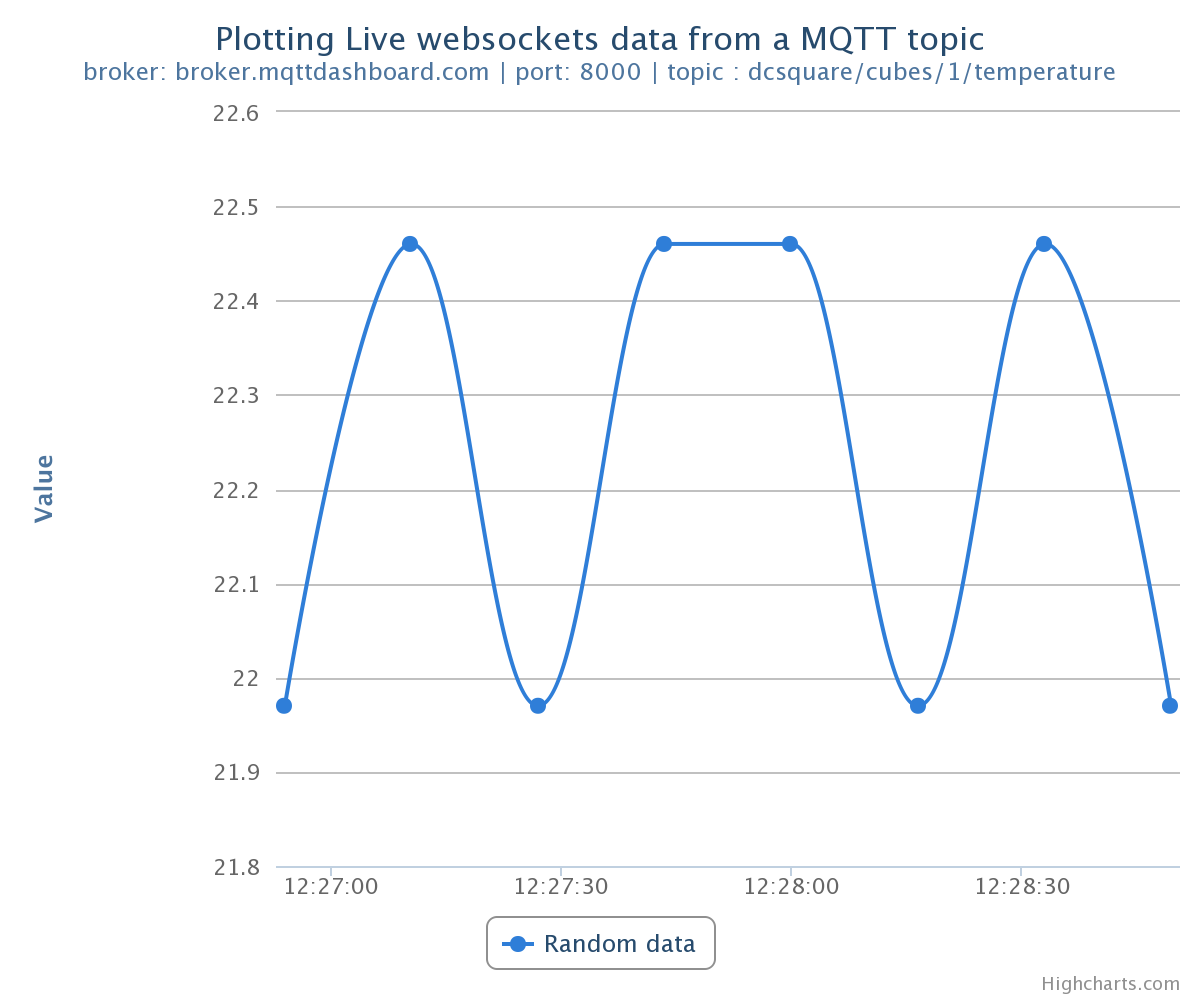
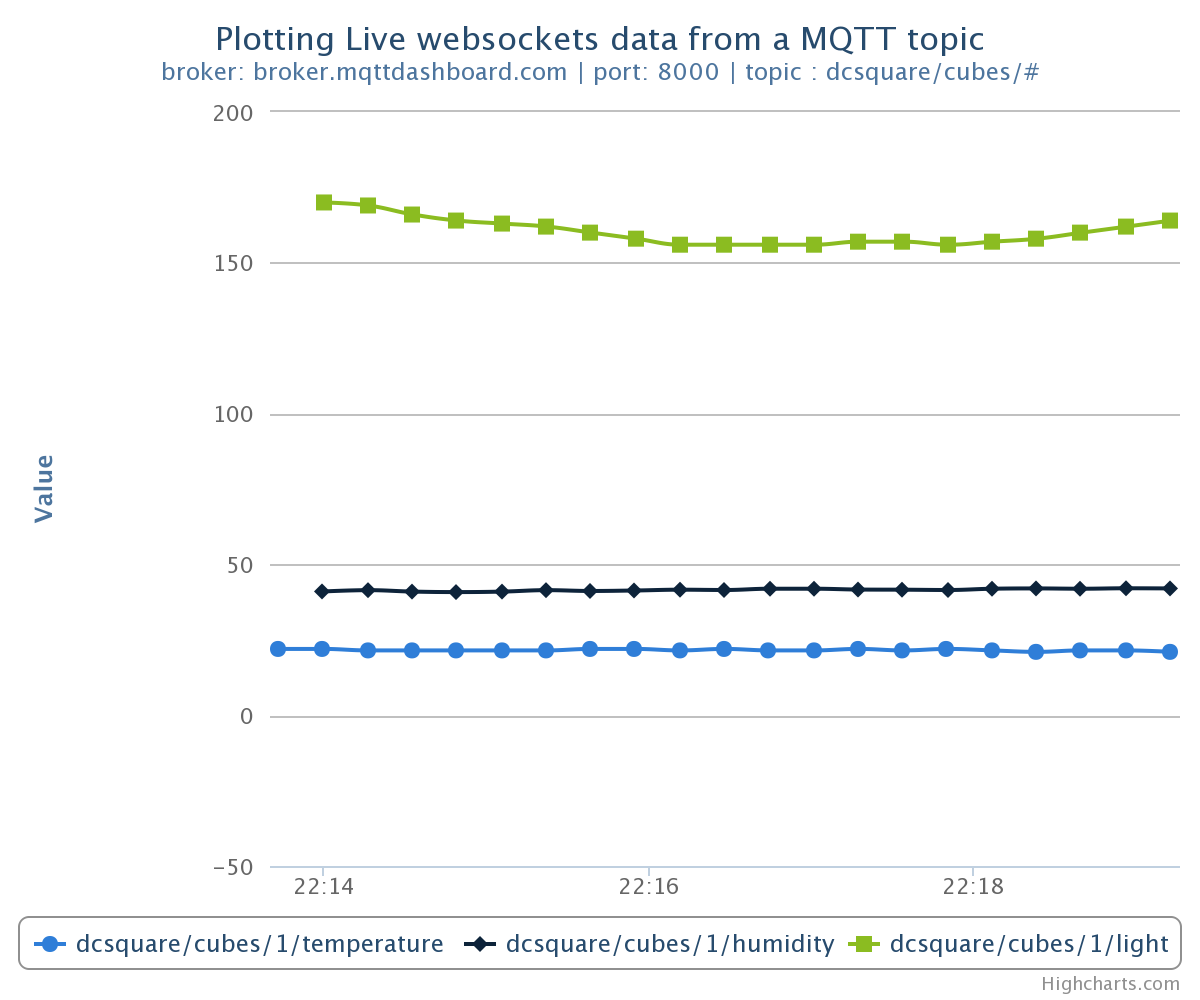
added support for wildcard topics
can now dynamically add charts

diff --git a/livemqttchart.html b/livemqttchart.html
@@ -17,19 +17,18 @@ public broker and topic you can use for testing.
 
 	var MQTTbroker = 'broker.mqttdashboard.com';
 	var MQTTport = 8000;
-	var MQTTsubTopic = 'dcsquare/cubes/1/temperature';
+	var MQTTsubTopic = 'dcsquare/cubes/#'; //works with wildcard # and + topics dynamically now
 
 */
 
 //settings BEGIN
 	var MQTTbroker = 'broker.mqttdashboard.com';
 	var MQTTport = 8000;
-	var MQTTsubTopic = 'dcsquare/cubes/1/temperature';
+	var MQTTsubTopic = 'dcsquare/cubes/#'; //works with wildcard # and + topics dynamically now
 //settings END
 
-
-
 	var chart; // global variuable for chart
+	var dataTopics = new Array();
 
 //mqtt broker 
 	var client = new Messaging.Client(MQTTbroker, MQTTport,
@@ -63,31 +62,57 @@ public broker and topic you can use for testing.
 	function onMessageArrived(message) {
 		console.log(message.destinationName, '',message.payloadString);
 
+		//check if it is a new topic, if not add it to the array
+		if (dataTopics.indexOf(message.destinationName) < 0){
+		    
+		    dataTopics.push(message.destinationName); //add new topic to array
+		    var y = dataTopics.indexOf(message.destinationName); //get the index no
+		    
+		    //create new data series for the chart
+			var newseries = {
+		            id: y,
+		            name: message.destinationName,
+		            data: []
+		            };
+
+			chart.addSeries(newseries); //add the series
+		    
+		    };
+		 
+		var y = dataTopics.indexOf(message.destinationName); //get the index no of the topic from the array
 		var myEpoch = new Date().getTime(); //get current epoch time
 		var thenum = message.payloadString.replace( /^\D+/g, ''); //remove any text from the message
 		var plotMqtt = [myEpoch, Number(thenum)]; //create the array
-		//var plotMqtt = [myEpoch, Number(message.payloadString)]; //create the array
-		plot(plotMqtt);	//send it to the plot function
+		plot(plotMqtt, y);	//send it to the plot function
 	};
 
 //function that is called once the document has loaded
 	function init() {
 
+		//i find i have to set this to false if i have trouble with timezones.
+		Highcharts.setOptions({
+			global: {
+				useUTC: false
+			}
+		});
+
 		// Connect to MQTT broker
 		client.connect(options);
+
 	};
 
 
 //this adds the plots to the chart	
-    function plot(point) {
+    function plot(point, chartno) {
     	console.log(point);
-        var series = chart.series[0],
-            shift = series.data.length > 20; // shift if the series is 
-                                             // longer than 20
+    	
+	        var series = chart.series[0],
+	            shift = series.data.length > 20; // shift if the series is 
+	                                             // longer than 20
+	        // add the point
+	        chart.series[chartno].addPoint(point, true, shift);  
 
-        // add the point
-        chart.series[0].addPoint(point, true, shift);  
-    };
+	};
 
 //settings for the chart
 	$(document).ready(function() {
@@ -115,10 +140,7 @@ public broker and topic you can use for testing.
 	                margin: 80
 	            }
 	        },
-	        series: [{
-	            name: 'Random data',
-	            data: []
-	        }]
+	        series: []
 	    });        
 	});
 
